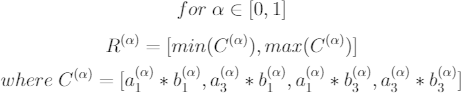
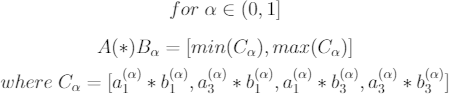
Fix mathematical notations

Changed region(s): [[0.0, 0.7097, 1.0, 0.9892], [0.2183, 0.3656, 0.8107, 0.6237], [0.3742, 0.0, 0.6236, 0.2151]]

diff --git a/js/main.js b/js/main.js
@@ -613,7 +613,7 @@ function changeTypeSelect() {
     operations[6] = [
 		["Standart (Max) Union", union],
 		["Yager Union", uYager],
-		["Probalistic Sum Union", uProbSum],
+		["Probabilistic Sum Union", uProbSum],
 		["Bounded Sum Union", uBSum],
 		["Hamacher Union", uHamacher]
     ]
